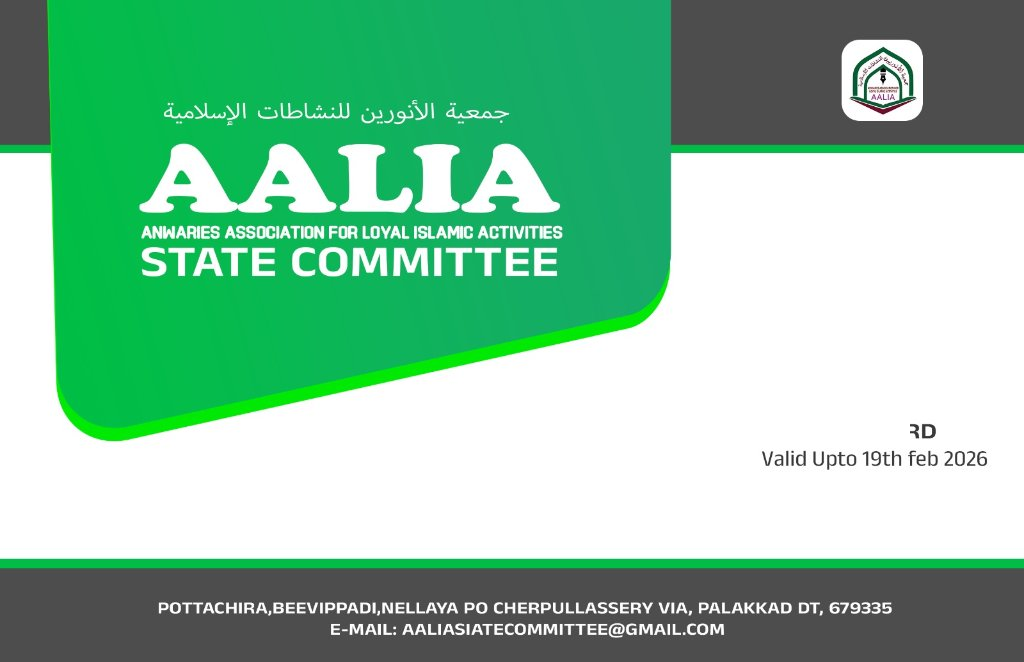
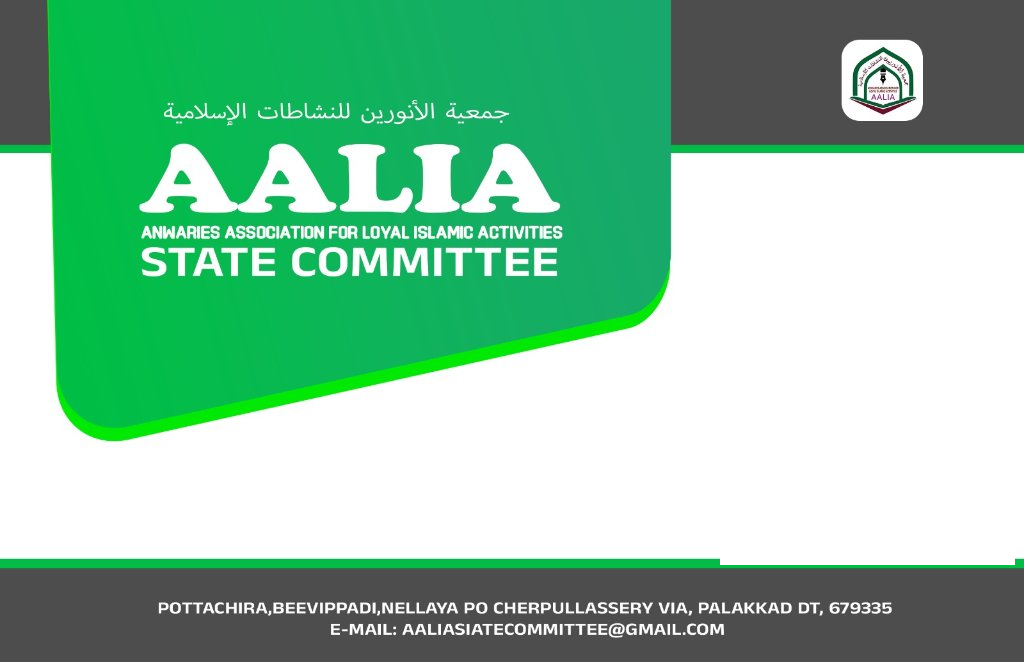
card updated

Changed region(s): [[0.75, 0.6344, 0.9688, 0.7251], [0.6875, 0.8459, 1.0, 0.8761]]

diff --git a/src/services/card.service.js b/src/services/card.service.js
@@ -12,6 +12,7 @@ const __dirname = path.dirname(__filename);
 
 // Target QR URL specified by user
 const CARD_QR_URL = process.env.CARD_QR_URL || 'https://www.youtube.com/@aaliavision6927';
+const CARD_VALIDITY_TEXT = process.env.CARD_VALIDITY_TEXT || 'Valid Upto 31st Dec 2029';
 
 // Locate template paths
 const getCardTemplatePaths = () => {
@@ -227,9 +228,13 @@ export const generateCardBackBuffer = async (application = null) => {
 
   // 2. Generate and draw custom QR Code
   // The QR code links to https://www.youtube.com/@aaliavision6927 as specified
+  const qrX = 763;
+  const qrY = 270;
+  const qrSize = 140;
+
   const qrBuffer = await QRCode.toBuffer(CARD_QR_URL, {
     margin: 0,
-    width: 138,
+    width: qrSize,
     color: {
       dark: '#000000',
       light: '#ffffff',
@@ -237,8 +242,24 @@ export const generateCardBackBuffer = async (application = null) => {
   });
 
   const qrImg = await loadImage(qrBuffer);
-  // QR coordinates matching template: x: 763, y: 294, width: 138, height: 138
-  ctx.drawImage(qrImg, 763, 294, 138, 138);
+  ctx.drawImage(qrImg, qrX, qrY, qrSize, qrSize);
+
+  // 3. Render clean labels below QR code (left-aligned with QR code)
+  ctx.textAlign = 'left';
+  ctx.textBaseline = 'top';
+
+  // MEMBER
+  ctx.fillStyle = '#262626';
+  ctx.font = 'bold 20px Arial';
+  ctx.fillText('MEMBER', qrX, qrY + qrSize + 16);
+
+  // IDENTITY CARD
+  ctx.fillText('IDENTITY CARD', qrX, qrY + qrSize + 42);
+
+  // Validity Date: "Valid Upto 31st Dec 2029"
+  ctx.fillStyle = '#3f3f46';
+  ctx.font = '500 15.5px Arial';
+  ctx.fillText(CARD_VALIDITY_TEXT, qrX, qrY + qrSize + 72);
 
   return canvas.toBuffer('image/png');
 };

diff --git a/src/controllers/application.controller.js b/src/controllers/application.controller.js
@@ -80,6 +80,7 @@ const getCardFront = async (req, res, next) => {
     }
     const buffer = await cardService.generateCardFrontBuffer(application);
     res.setHeader('Content-Type', 'image/png');
+    res.setHeader('Cross-Origin-Resource-Policy', 'cross-origin');
     res.setHeader('Cache-Control', 'public, max-age=3600');
     res.send(buffer);
   } catch (error) {
@@ -91,6 +92,7 @@ const getCardBack = async (req, res, next) => {
   try {
     const buffer = await cardService.generateCardBackBuffer();
     res.setHeader('Content-Type', 'image/png');
+    res.setHeader('Cross-Origin-Resource-Policy', 'cross-origin');
     res.setHeader('Cache-Control', 'public, max-age=86400');
     res.send(buffer);
   } catch (error) {

diff --git a/app.js b/app.js
@@ -10,7 +10,9 @@ import './src/config/env.js';
 const app = express();
 
 // Security and middleware
-app.use(helmet());
+app.use(helmet({
+  crossOriginResourcePolicy: { policy: 'cross-origin' },
+}));
 
 const allowedOrigins = [
   'http://localhost:5173',
